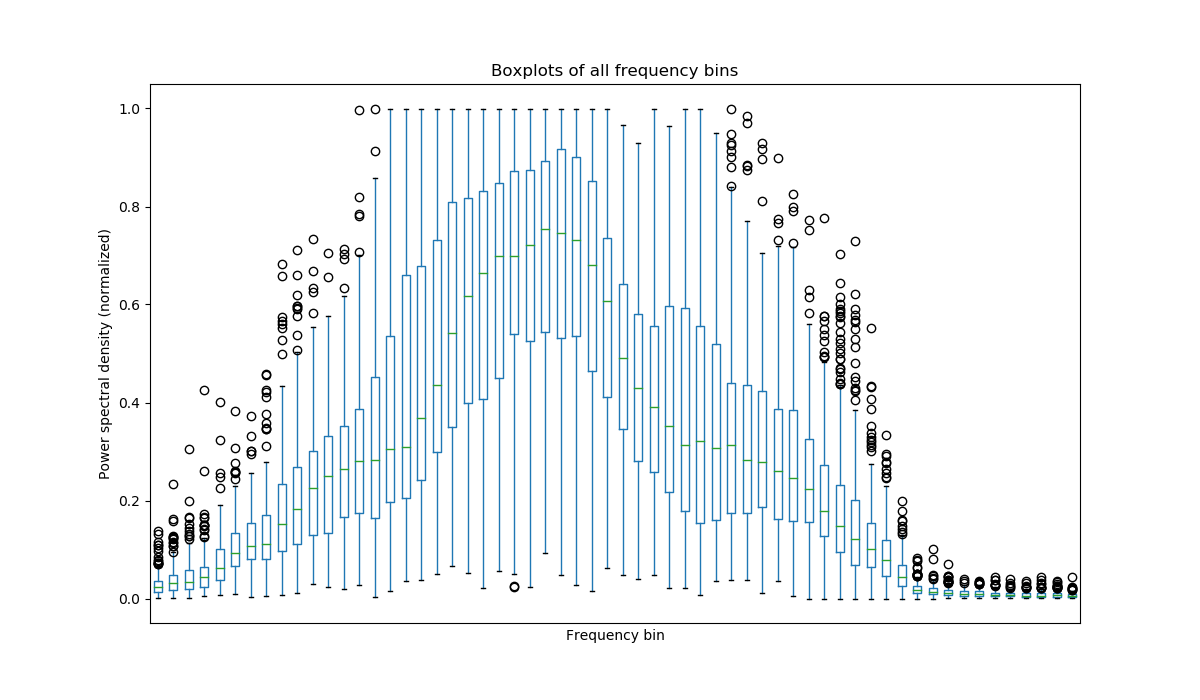
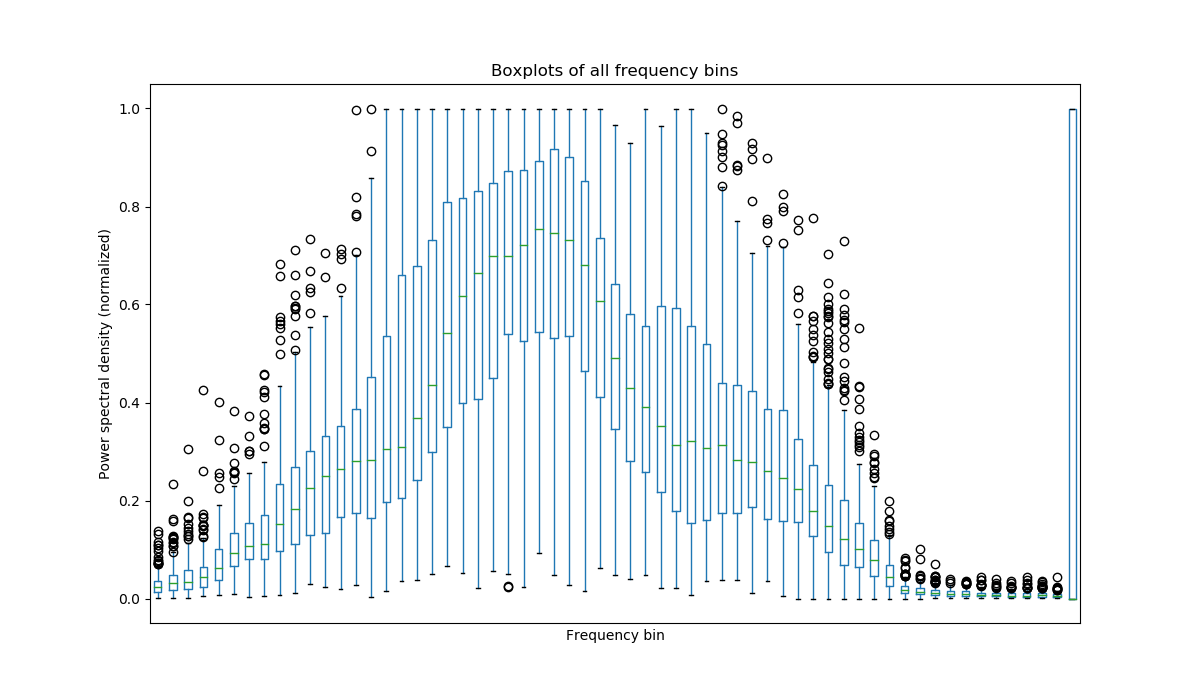
using dataset of the tp instead of origin dataset

Changed region(s): [[0.1542, 0.15, 0.925, 0.87], [0.1542, 0.54, 0.185, 0.57]]

diff --git a/nn_process.py b/nn_process.py
@@ -7,8 +7,9 @@ from keras.layers import Dense
 from keras.utils import to_categorical
 
 # Read the sonar dataset
-input_data = pd.read_csv('data/sonar.csv', header=None)
-input_data.rename(columns={60: 'label'}, inplace=True)
+# 1 for a Rock, 0 for a Mine
+input_data = pd.read_csv('data/data_sonar.csv', delimiter=';')
+input_data.rename(columns={'Class': 'label'}, inplace=True)
 print(input_data.head(2))
 
 input_data.plot.box(figsize=(12, 7), xticks=[])
@@ -18,14 +19,14 @@ plt.ylabel('Power spectral density (normalized)')
 plt.savefig('res/boxplot_frequency.png')
 
 plt.figure(figsize=(8, 5))
-plt.plot(input_data[input_data['label'] == 'R'].values[0][:-1], label='Rock', color='black')
-plt.plot(input_data[input_data['label'] == 'M'].values[0][:-1], label='Metal', color='lightgray', linestyle='--')
+plt.plot(input_data[input_data['label'] == 1].values[0][:-1], label='Rock', color='black')
+plt.plot(input_data[input_data['label'] == 0].values[0][:-1], label='Mine', color='lightgray', linestyle='--')
 plt.legend()
 plt.title('Example of both classes')
 plt.xlabel('Frequency bin')
 plt.ylabel('Power spectral density (normalized)')
 plt.tight_layout()
-plt.savefig('res/psd')
+plt.savefig('res/psd.png')
 
 # dataset already normalized
 # we just have to encode the classes of type string to integer then split the dataset (80%/20%)
